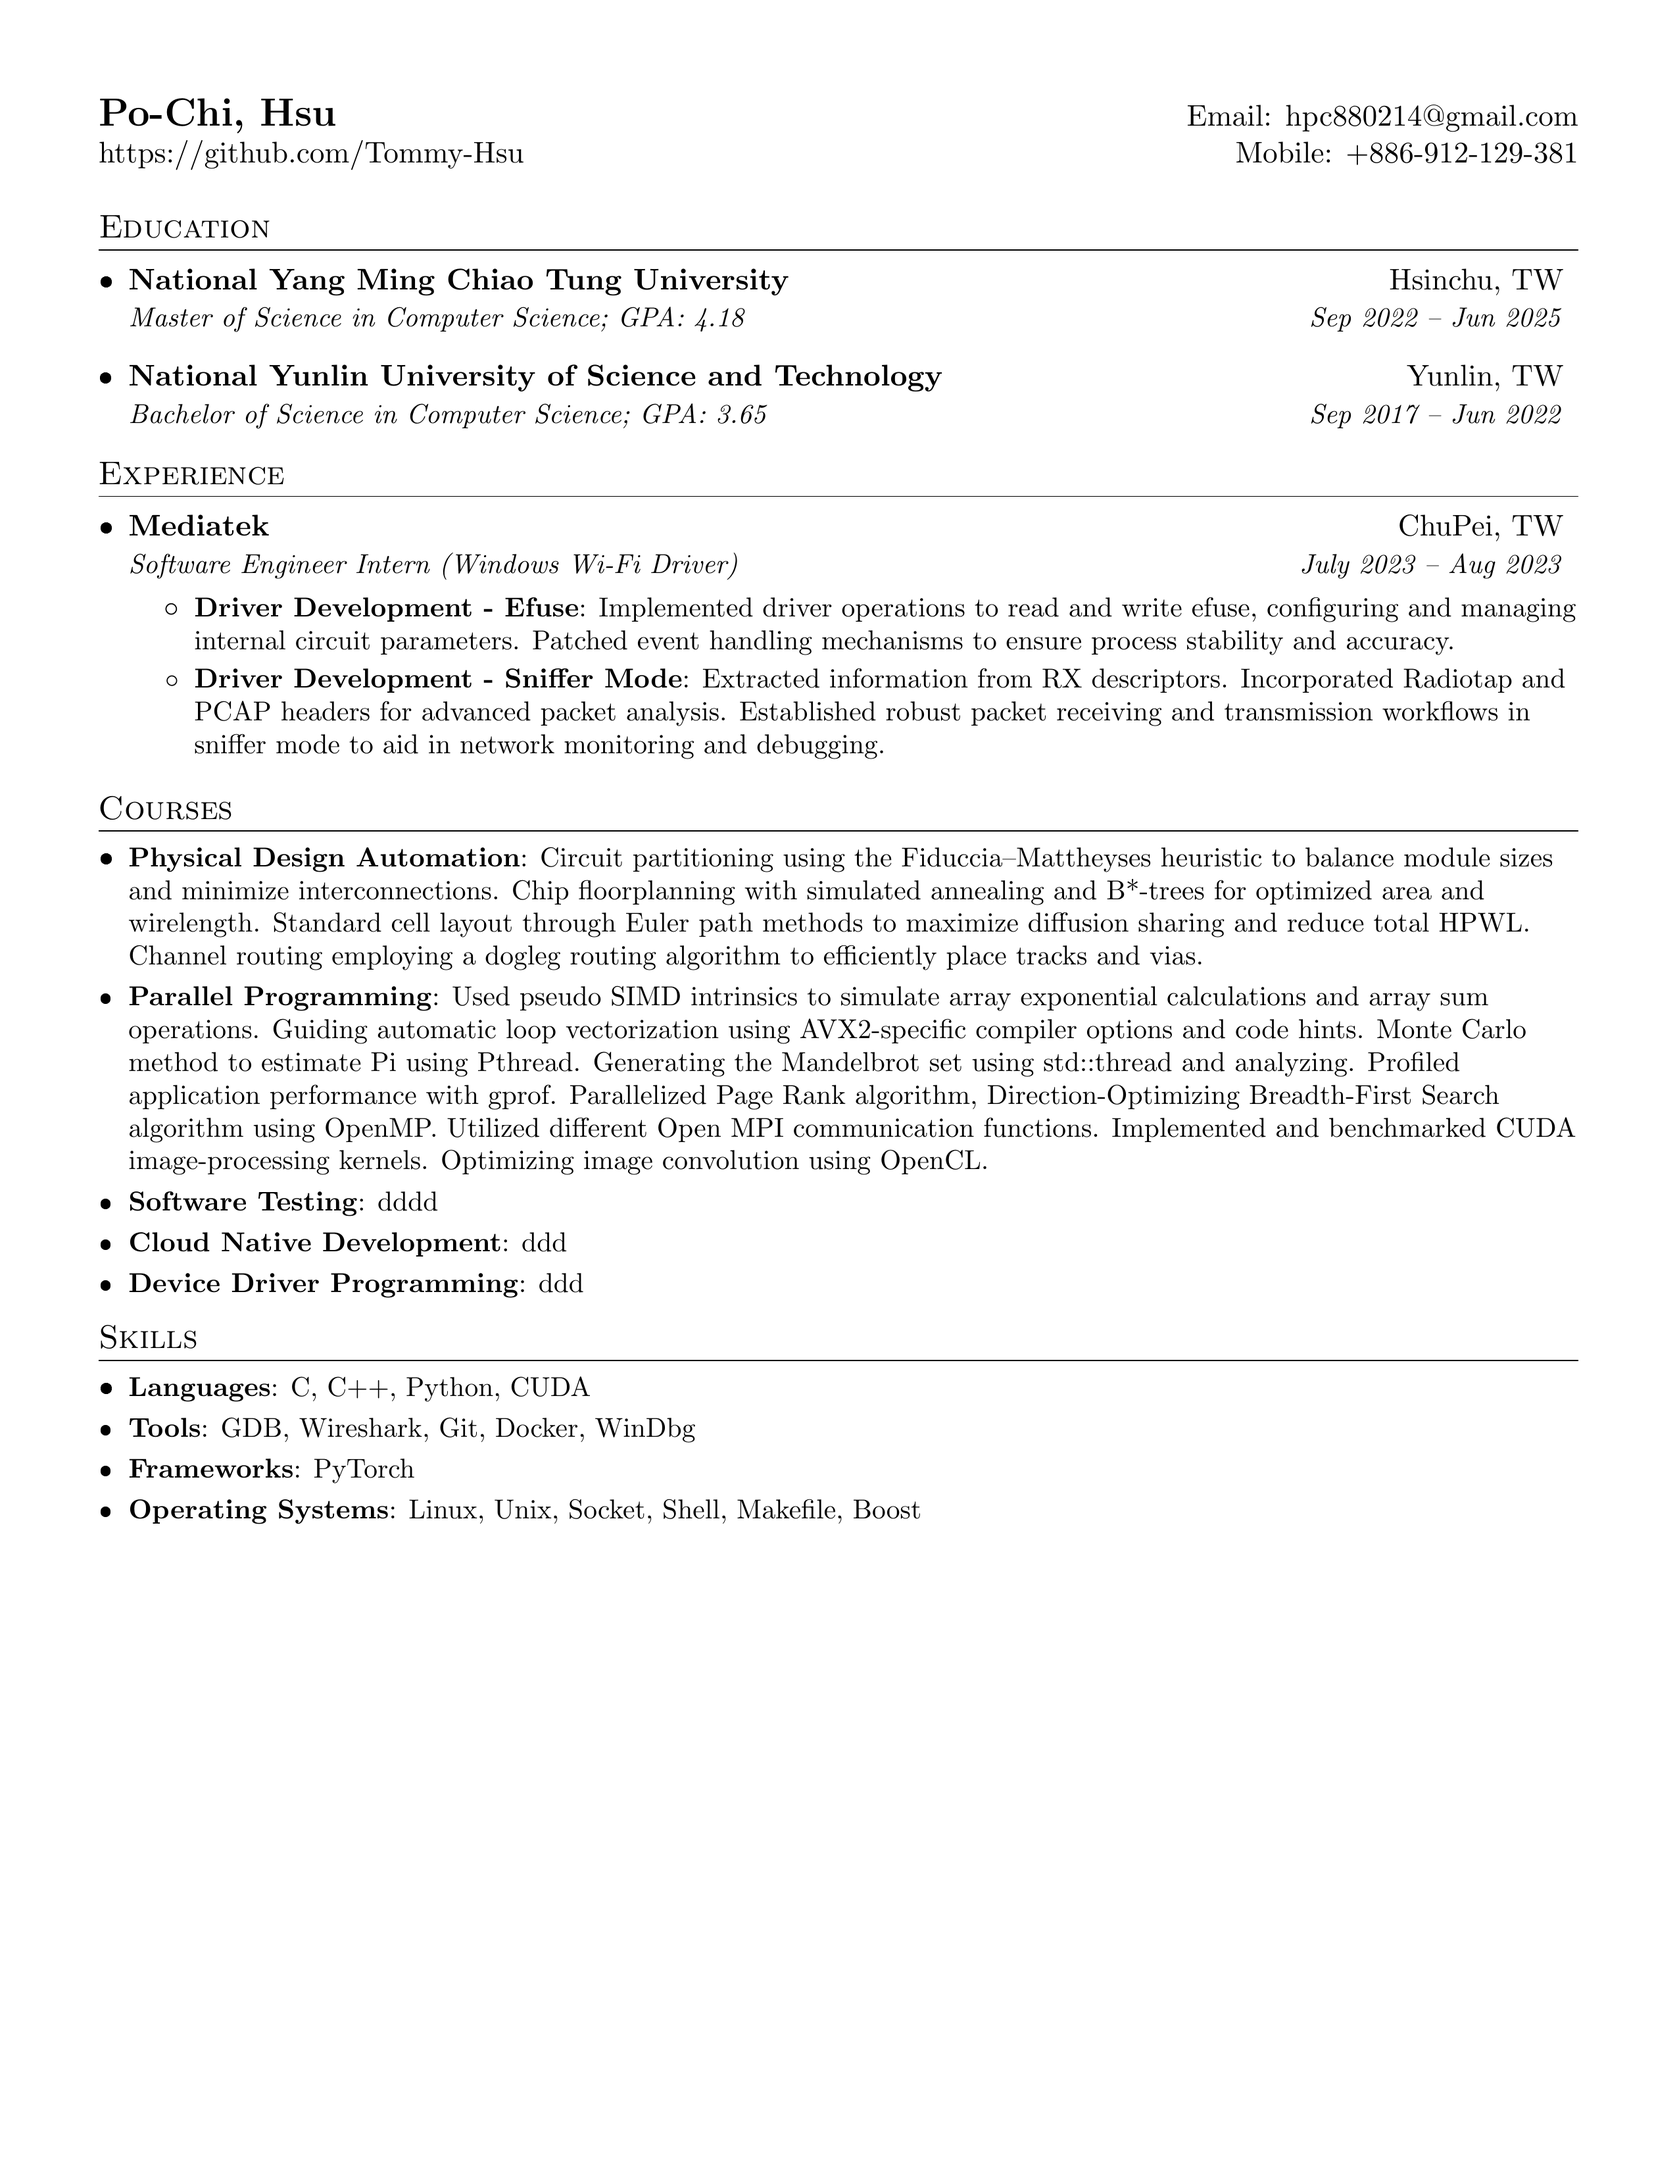
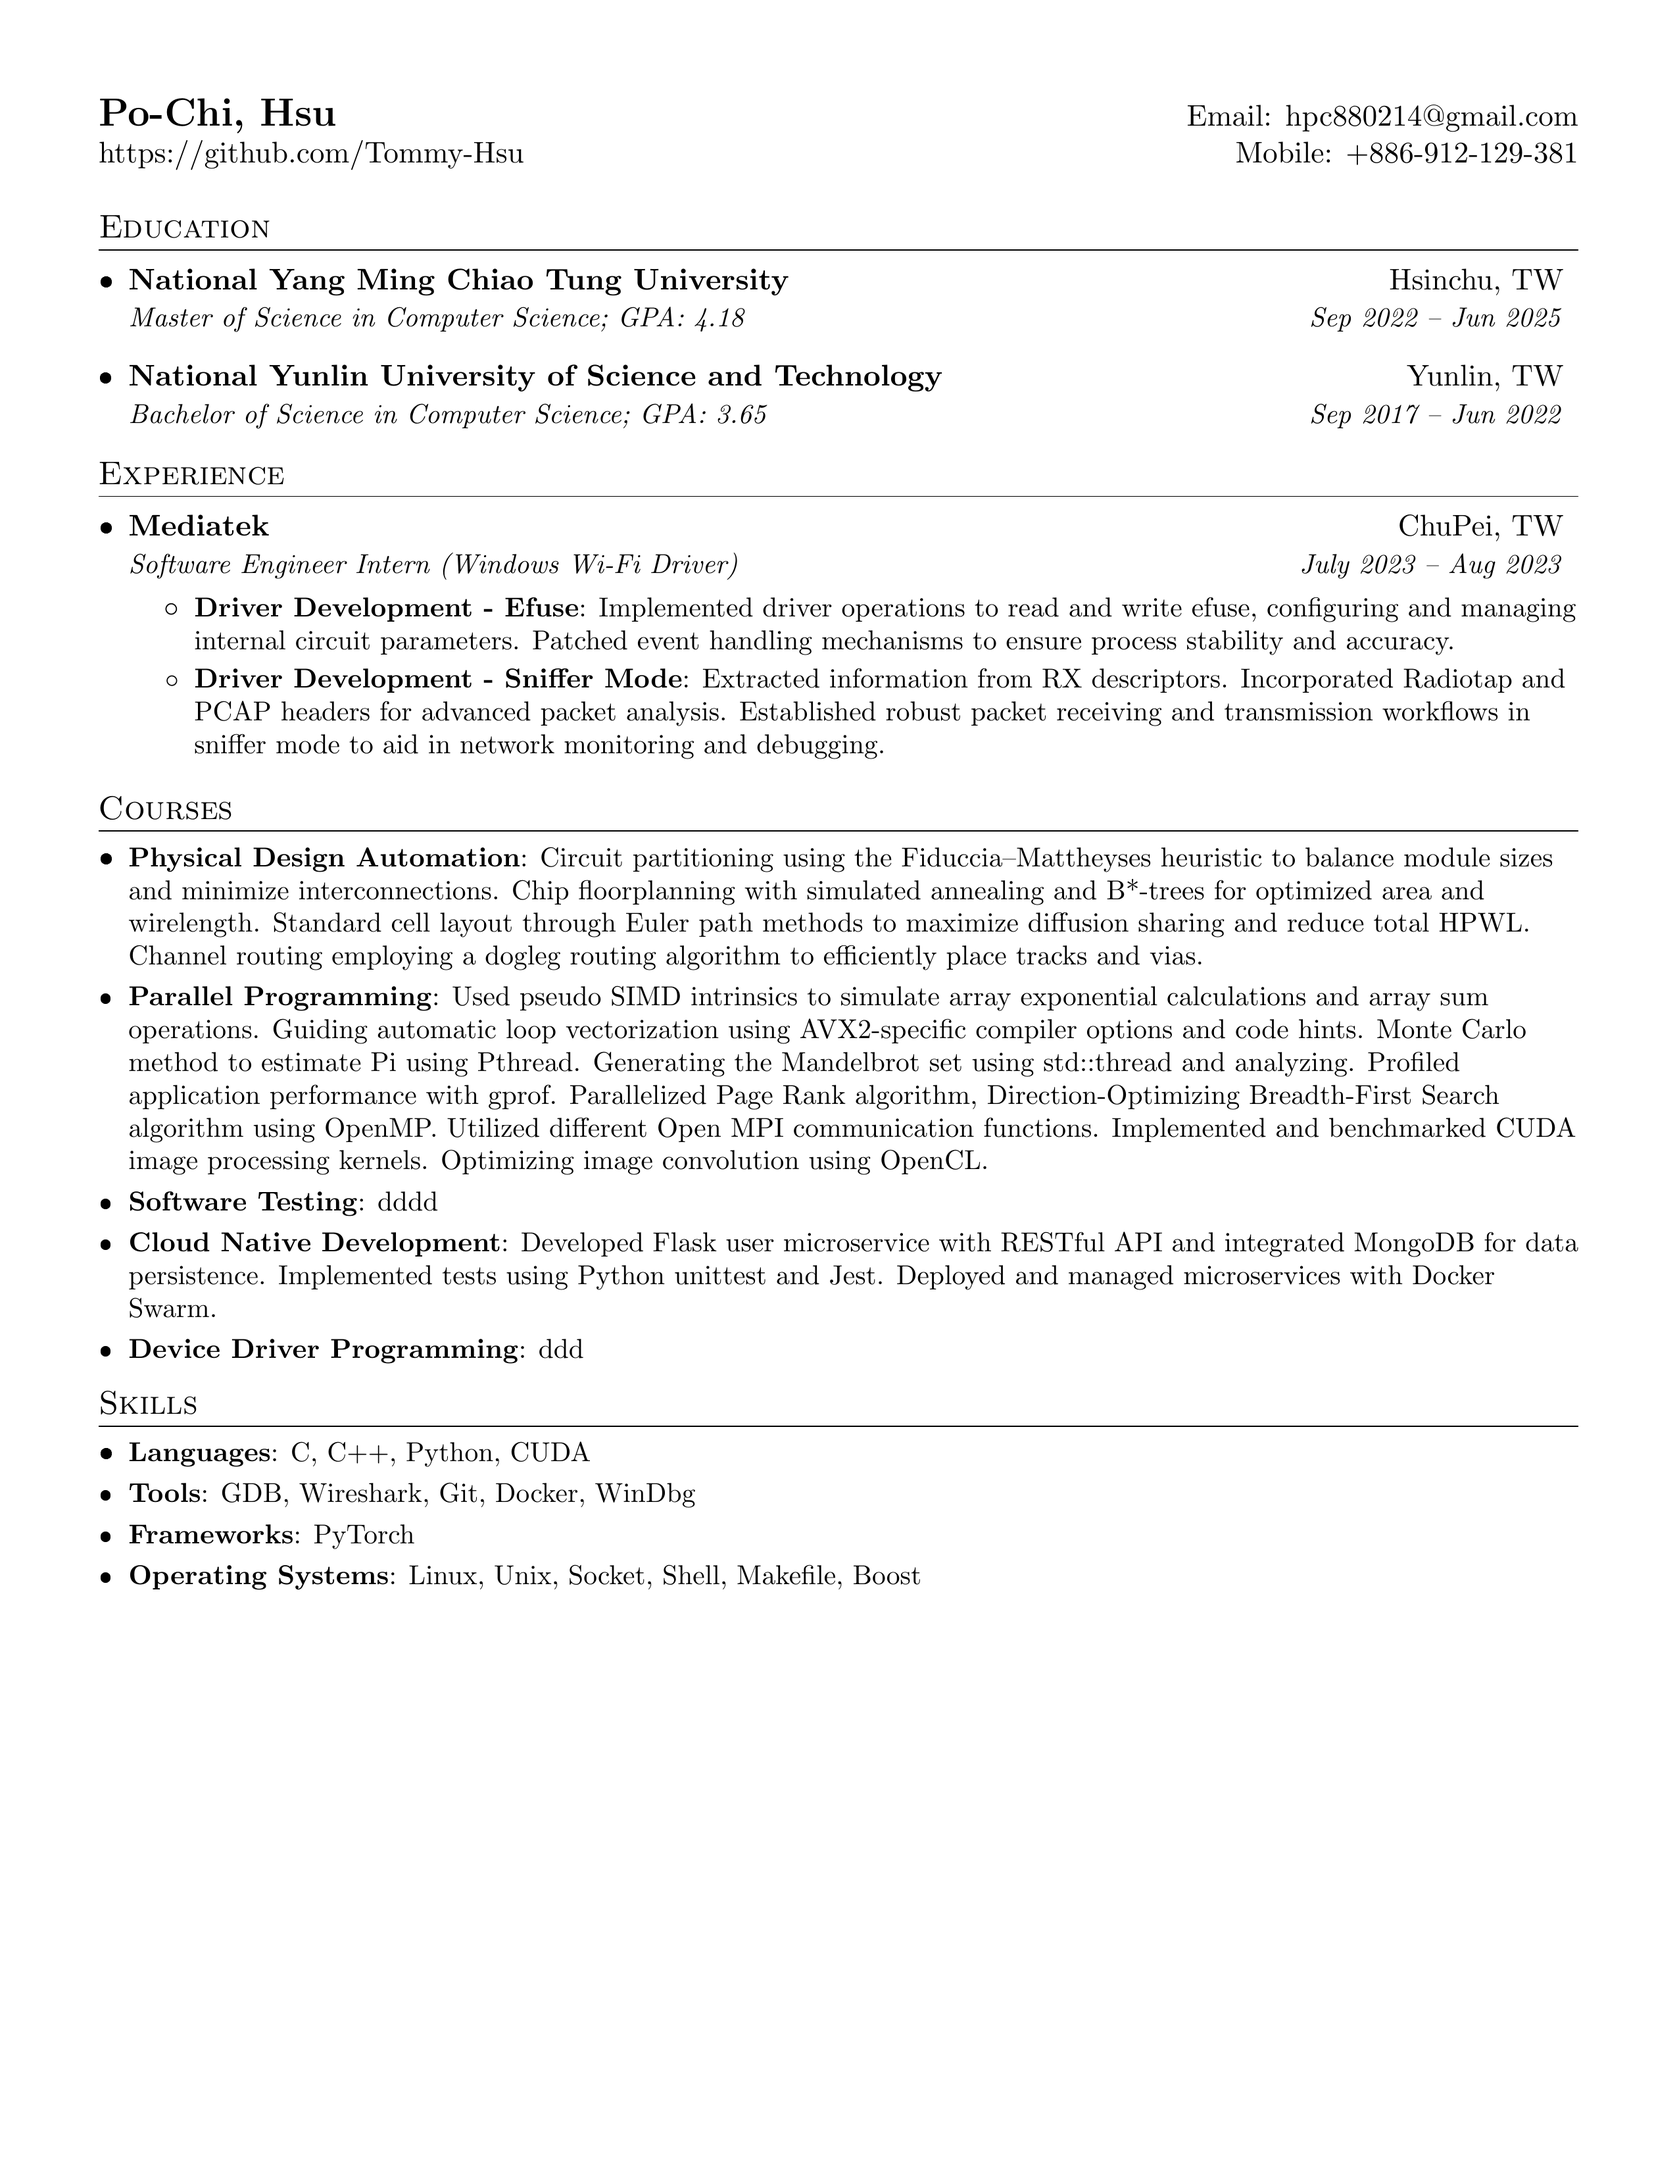
Cloud Native Development

Changed region(s): [[0.062, 0.5618, 0.8984, 0.7491]]

diff --git a/hpc.tex b/hpc.tex
@@ -143,13 +143,15 @@
       Profiled application performance with gprof.
       Parallelized Page Rank algorithm, Direction-Optimizing Breadth-First Search algorithm using OpenMP.
       Utilized different Open MPI communication functions.
-      Implemented and benchmarked CUDA image‐processing kernels.
+      Implemented and benchmarked CUDA image processing kernels.
       Optimizing image convolution using OpenCL.
       }
     \resumeSubItem{Software Testing}
       {dddd}
     \resumeSubItem{Cloud Native Development}
-      {ddd}
+      {Developed Flask user microservice with RESTful API and integrated MongoDB for data persistence.
+      Implemented tests using Python unittest and Jest. Deployed and managed microservices with Docker Swarm.
+      }
     \resumeSubItem{Device Driver Programming}
       {ddd}
   \resumeSubHeadingListEnd
